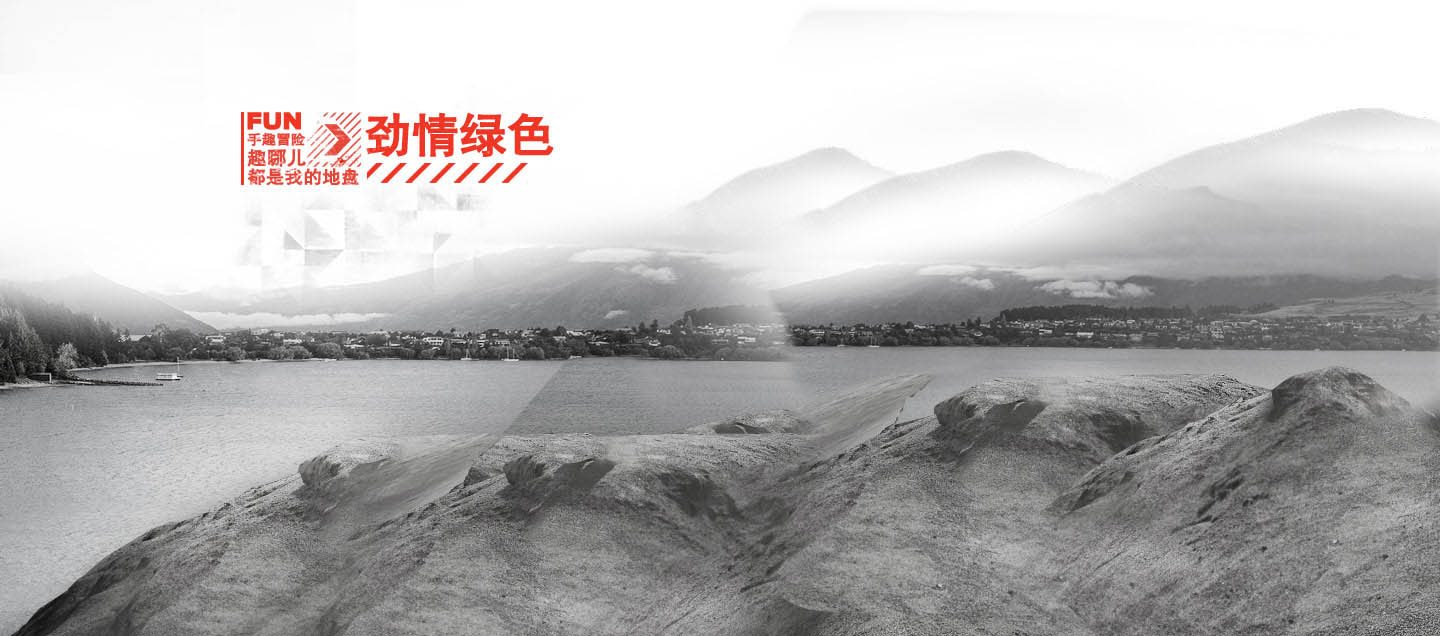
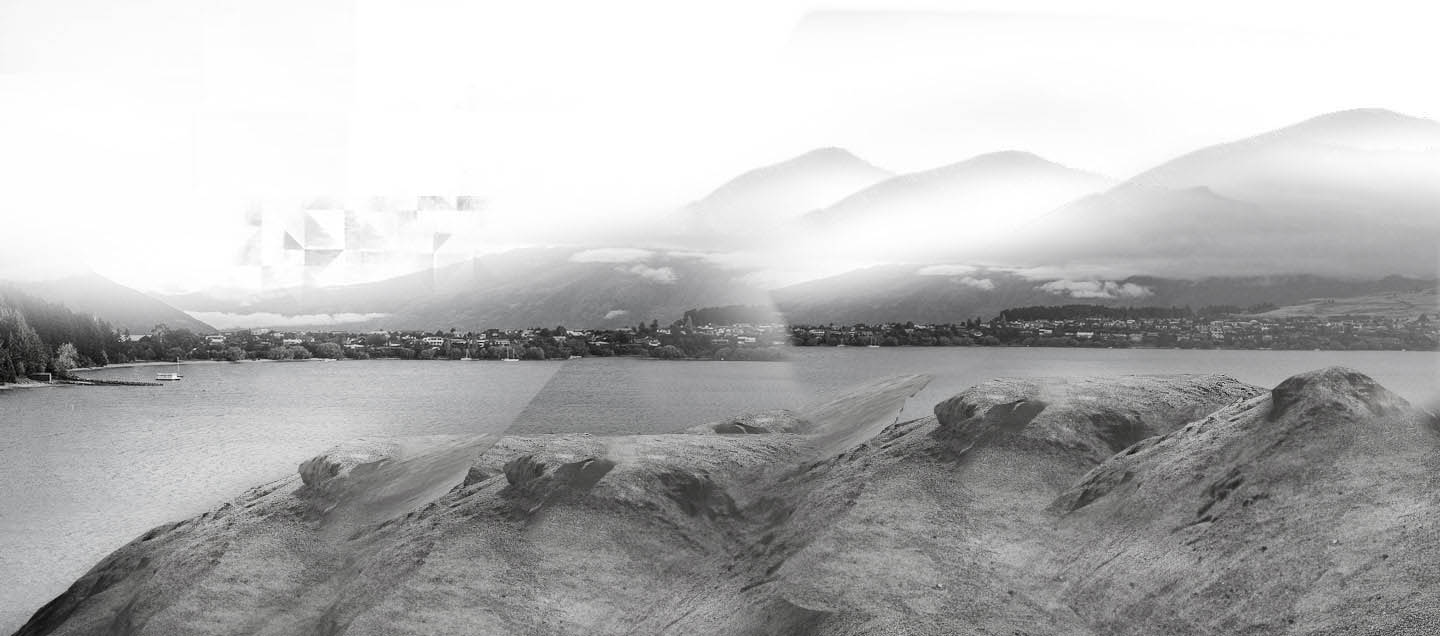
a

Changed region(s): [[0.1562, 0.1792, 0.4062, 0.2987]]

diff --git a/js/custom.js b/js/custom.js
@@ -20,8 +20,10 @@ define(['jquery', 'transit','touchSwipe','simpleSlider','backstretch','jquery.jr
        /* yes, that's all! */
 
        $(".slider").on("beforeSliding", function(event){
+
            var prevSlide = event.prevSlide;
            var newSlide = event.newSlide;
+           $("#logoimg").attr("src","images/"+(newSlide+1)+"/1_1_1.png");
            $(".slider .slide[data-index='"+prevSlide+"'] .slidecontent").fadeOut();
            $(".slider .slide[data-index='"+newSlide+"'] .slidecontent").hide();
 
@@ -47,6 +49,7 @@ define(['jquery', 'transit','touchSwipe','simpleSlider','backstretch','jquery.jr
                rotation: 0,
                speed: 0
            });
+
            $(".backstretch .car ",$(".slide")[newSlide]).trigger('startRumble');
            setTimeout(function(){$(".backstretch .car ",$(".slide")[newSlide]).trigger('stopRumble');},1000)
 

diff --git a/js/page4.js b/js/page4.js
@@ -1,10 +1,10 @@
 define(['jquery-ui', 'jquery-fullPage', 'jquery-mousewheel','coveringBad','head','jquery.easing.1.3','modernizr'], function () {
 
     $('#fullpage').fullpage({
-        anchors: ['firstPage', 'secondPage', '3rdPage','4rdPage','5','6','7','8','9','10','11','12'],
+        anchors: ['1', '2', '3','4','5','6','7','8','9','10','11','12'],
         navigation: true,
         navigationPosition: 'right',
-        navigationTooltips: ['firstSlide', 'secondSlide'],
+        //navigationTooltips: ['firstSlide', 'secondSlide'],
         slidesNavigation: true,
         afterLoad: function(anchorLink, index, slideAnchor, slideIndex){
             if(index==3){

diff --git a/js/page1.js b/js/page1.js
@@ -10,10 +10,10 @@ define(['ieextend','jquery-ui', 'jquery-fullPage', 'jquery-mousewheel','covering
         $(".bg133").hide();
     })
     $('#fullpage').fullpage({
-        anchors: ['firstPage', 'secondPage', '3rdPage','4rdPage','5','6','7','8','9','10','11','12'],
+        anchors: ['1', '2', '3','4','5','6','7','8','9','10','11','12'],
         navigation: true,
         navigationPosition: 'right',
-        navigationTooltips: ['firstSlide', 'secondSlide'],
+        //navigationTooltips: ['firstSlide', 'secondSlide'],
 
         slidesNavigation: true,
         afterLoad: function(anchorLink, index, slideAnchor, slideIndex){

diff --git a/js/page3.js b/js/page3.js
@@ -1,10 +1,10 @@
 define(['jquery-ui', 'jquery-fullPage', 'jquery-mousewheel','coveringBad','head','modernizr'], function () {
 
     $('#fullpage').fullpage({
-        anchors: ['firstPage', 'secondPage', '3rdPage','4rdPage','5','6','7','8','9','10','11','12'],
+        anchors: ['1', '2', '3','4','5','6','7','8','9','10','11','12'],
         navigation: true,
         navigationPosition: 'right',
-        navigationTooltips: ['firstSlide', 'secondSlide'],
+        //navigationTooltips: ['firstSlide', 'secondSlide'],
         slidesNavigation: true       ,
         afterLoad: function(anchorLink, index, slideAnchor, slideIndex){
 

diff --git a/js/page2.js b/js/page2.js
@@ -1,10 +1,10 @@
 define(['jquery-ui', 'jquery-fullPage', 'jquery-mousewheel','coveringBad','head','modernizr'], function () {
 
     $('#fullpage').fullpage({
-        anchors: ['firstPage', 'secondPage', '3rdPage','4rdPage','5','6','7','8','9','10','11','12'],
+        anchors: ['1', '2', '3','4','5','6','7','8','9','10','11','12'],
         navigation: true,
         navigationPosition: 'right',
-        navigationTooltips: ['firstSlide', 'secondSlide'],
+        //navigationTooltips: ['firstSlide', 'secondSlide'],
         slidesNavigation: true ,
         afterLoad: function(anchorLink, index, slideAnchor, slideIndex){
 

diff --git a/1.html b/1.html
@@ -174,7 +174,7 @@
         <div class="bg72"> </div>
     </div>
     <div class="section section8">
-        <div class="bg"><img src="images/1/slide8.jpg" alt=""> </div>
+        <div class="bg"  style="margin-left: -161px;"><img src="images/1/slide8.jpg" alt=""> </div>
         <div class="bg44"> </div>
         <div class="bg82"> </div>
     </div>

diff --git a/index.html b/index.html
@@ -102,7 +102,9 @@
                         </div>
                     </li>
                 </ul>
+
             </div>
+            <div><img  id="logoimg" src="images/1/1_1_1.png"></div>
         </header>
         <nav class="cti-leftnav">
             <ul>
